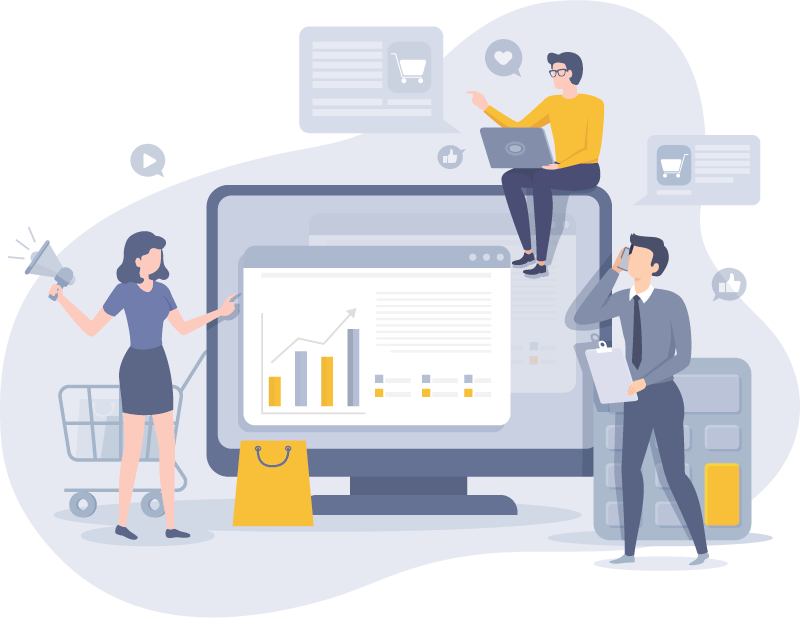
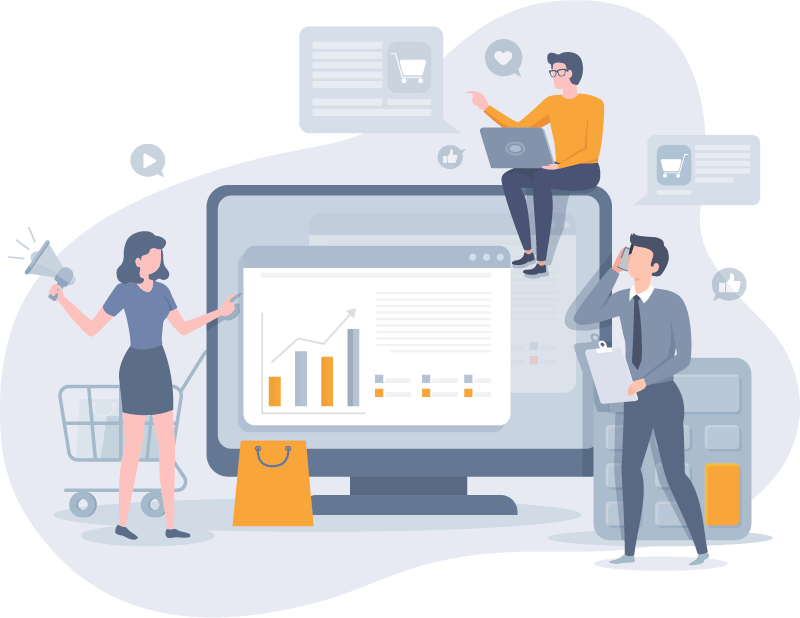
Changed Colors

diff --git a/templates/profile.html b/templates/profile.html
@@ -49,7 +49,7 @@ background-color: #e2e8f0;
 }
 
 .profile-card-2 .card.profile-primary::before {
-	background-color: #ebb523;
+	background-color: #FE980F;
 }
 .profile-card-2 .card.profile-success::before {
 	background-color: #15ca20;
@@ -140,14 +140,14 @@ background-color: #e2e8f0;
 }
 
 .nav-tabs-primary.nav-tabs{
-	border-bottom: 1px solid #ebb523;
+	border-bottom: 1px solid #FE980F;
 }
 
 .nav-tabs-primary .nav-link.active, .nav-tabs-primary .nav-item.show>.nav-link {
-    color: #ebb523;
+    color: #FE980F;
     background-color: #fff;
-    border-color: #ebb523 #ebb523 #fff;
-    border-top: 3px solid #ebb523;
+    border-color: #FE980F #FE980F #fff;
+    border-top: 3px solid #FE980F;
 }
 
 .nav-tabs-success.nav-tabs{
@@ -247,16 +247,16 @@ background-color: #e2e8f0;
 
 .tabs-vertical-primary.tabs-vertical .nav-tabs{
 	border:0;
-	border-right: 1px solid #ebb523;
+	border-right: 1px solid #FE980F;
 }
 
 .tabs-vertical-primary.tabs-vertical .nav-tabs .nav-item.show .nav-link, .tabs-vertical-primary.tabs-vertical .nav-tabs .nav-link.active {
-    color: #ebb523;
+    color: #FE980F;
     background-color: #fff;
-    border-color: #ebb523 #ebb523 #fff;
-    border-bottom: 1px solid #ebb523;
+    border-color: #FE980F #FE980F #fff;
+    border-bottom: 1px solid #FE980F;
     border-right: 0;
-    border-left: 3px solid #ebb523;
+    border-left: 3px solid #FE980F;
 }
 
 .tabs-vertical-success.tabs-vertical .nav-tabs{
@@ -379,7 +379,7 @@ background-color: #e2e8f0;
 
 .nav-pills .nav-link.active, .nav-pills .show>.nav-link {
     color: #fff;
-    background-color: #ebb523;
+    background-color: #FE980F;
     box-shadow: 0 4px 20px 0 rgba(0,0,0,.14), 0 7px 10px -5px rgba(0, 140, 255, 0.5);
 }
 
@@ -501,7 +501,7 @@ background-color: #e2e8f0;
             <div class="card z-depth-3">
                 <div class="card-body">
                     <ul class="nav nav-pills nav-pills-primary nav-justified">
-                        <li class="nav-item" style="color:#ebb523;">
+                        <li class="nav-item" style="color:#FE980F;">
                             <a href="javascript:void();" data-target="#profile" data-toggle="pill"
                                class="nav-link active show"><i class="icon-user"></i> <span
                                     class="hidden-xs" >Profile</span></a>

diff --git a/templates/base.html b/templates/base.html
@@ -64,7 +64,7 @@ h4 {
 	padding-right: 50px;
 }
 .navbar .navbar-brand b {
-	color: #ebb523;
+	color: #FE980F;
 }
 .navbar .form-inline {
 	display: inline-block;
@@ -124,7 +124,7 @@ h4 {
 	font-size: 14px;
 }
 .navbar .action-form a {
-	color: #ebb523;
+	color: #FE980F;
 	padding: 0 !important;
 	font-size: 14px;
 }
@@ -135,7 +135,7 @@ h4 {
 }
 .navbar .btn-primary, .navbar .btn-primary:active {
 	color: #fff;
-	background: #ebb523 !important;
+	background: #FE980F !important;
 	border: none;
 }
 .navbar .btn-primary:hover, .navbar .btn-primary:focus {
@@ -263,7 +263,7 @@ footer h6:after {
                 line-height: 47px;
      }
      .btn-footer:hover {
-                color:#ebb523;
+                color:#FE980F;
                 text-decoration: none;
 
      }
@@ -271,7 +271,7 @@ footer h6:after {
         color: white;
     }
      .footer-link:hover {
-                color:#ebb523;
+                color:#FE980F;
                 text-decoration: none;
     }
     .form-footer input[type="text"] {
@@ -298,7 +298,7 @@ footer h6:after {
     background: #00;
     }
      .social .fa-footer {
-    color: #ebb523;
+    color: #FE980F;
     font-size: 22px;
     padding: 5px 5px;
     background: #00;

diff --git a/static/css/main2.css b/static/css/main2.css
@@ -74,7 +74,7 @@ a:focus {
 
 a:hover {
 	text-decoration: none;
-  color: #ebb523;
+  color: #FE980F;
 }
 
 /*---------------------------------------------*/
@@ -367,7 +367,7 @@ input.input100 {
   top: -1px;
   left: -1px;
   pointer-events: none;
-  border: 1px solid #ebb523;
+  border: 1px solid #FE980F;
   border-radius: 10px;
 
   visibility: hidden;
@@ -462,7 +462,7 @@ input.input100 {
   height: 18px;
   border-radius: 2px;
   background: #fff;
-  border: 1px solid #ebb523;
+  border: 1px solid #FE980F;
   left: 0;
   top: 50%;
   -webkit-transform: translateY(-50%);
@@ -502,7 +502,7 @@ input.input100 {
   width: 300px;
   height: 50px;
   border-radius: 10px;
-  background: #ebb523;
+  background: #FE980F;
 
   font-family: Montserrat-Bold;
   font-size: 12px;

diff --git a/static/css/main.css b/static/css/main.css
@@ -74,7 +74,7 @@ a:focus {
 
 a:hover {
 	text-decoration: none;
-  color: #ebb523;
+  color: #FE980F;
 }
 
 /*---------------------------------------------*/
@@ -369,7 +369,7 @@ input.input100 {
   top: -1px;
   left: -1px;
   pointer-events: none;
-  border: 1px solid #ebb523;
+  border: 1px solid #FE980F;
   border-radius: 10px;
 
   visibility: hidden;
@@ -464,7 +464,7 @@ input.input100 {
   height: 18px;
   border-radius: 2px;
   background: #fff;
-  border: 1px solid #ebb523;
+  border: 1px solid #FE980F;
   left: 0;
   top: 50%;
   -webkit-transform: translateY(-50%);
@@ -504,7 +504,7 @@ input.input100 {
   width: 100%;
   height: 50px;
   border-radius: 10px;
-  background: #ebb523;
+  background: #FE980F;
 
   font-family: Montserrat-Bold;
   font-size: 12px;

diff --git a/products/templates/item.html b/products/templates/item.html
@@ -35,7 +35,7 @@ Buy {{x.name}}
 	padding: 35px;
 }
 .modal-header-cart {
-	background: #ebb523;
+	background: #FE980F;
 	border-bottom: none;
 	position: relative;
 	text-align: center;
@@ -182,7 +182,7 @@ Buy {{x.name}}
                     </dl>
 
                     <a href="#myModal1" class="btn btn-lg btn-primary text-uppercase"
-                       style="background: #ebb523;border: none; " data-toggle="modal"> Buy now </a>
+                       style="background: #FE980F;border: none; " data-toggle="modal"> Buy now </a>
                     {% if x.id not in ids %}
                        <a href="/wishlist/{{x.id}}" class="btn btn-lg btn-primary text-uppercase"
                        style="background: #dc3545;border: none; font-color:'white'"> <i

diff --git a/templates/auth/home.html b/templates/auth/home.html
@@ -30,7 +30,7 @@ HoneyComb
                         <a href="/buy/product/{{x.id}} " style="text-decoration:none;">
                             <style>
                             .btn-outline-warning{color:#ad7c2d; border-color:#ad7c2d; }
-                            .btn-outline-warning:hover { background-color:#ebb523; color:#fcfcfc;border-color:#ebb523; }
+                            .btn-outline-warning:hover { background-color:#FE980F; color:#fcfcfc;border-color:#FE980F; }
                             </style>
                             <button id="apr{{x.id}}" class="btn btn-outline-warning btn-sm">Buy Now
                             </button>

diff --git a/templates/wishlist.html b/templates/wishlist.html
@@ -92,7 +92,7 @@ Your Wishlist
                             </dl>  <!-- item-property-hor .// -->
 
                             <a href="/buy/product/{{x.id}}" class="btn btn-lg btn-primary text-uppercase"
-                               style="background: #ebb523;border: none; "><i
+                               style="background: #FE980F;border: none; "><i
                                     class="fa fa-shopping-cart"></i> Buy now </a>
                             <form action="/wishlist/{{x.id}}" method="post" style="display:inline">
                                 {% csrf_token %}

diff --git a/templates/editad.html b/templates/editad.html
@@ -68,7 +68,7 @@ background-color: #e2e8f0;
                         </div>
                         <div class="col-lg-9">
                             <input type="reset" class="btn btn-secondary" value="Cancel">
-                            <input type="submit"  class="btn btn-primary" value="Edit AD" style="background: #ebb523; border-color:#ebb523 ">
+                            <input type="submit"  class="btn btn-primary" value="Edit AD" style="background: #FE980F; border-color:#FE980F ">
                         </div>
                     </form>
                 </div>

diff --git a/templates/yourads.html b/templates/yourads.html
@@ -92,7 +92,7 @@ Your ADs
                             </dl>  <!-- item-property-hor .// -->
 
                             <a href="/yourads/edit/{{x.id}}" class="btn btn-lg btn-primary text-uppercase"
-                               style="background: #ebb523;border: none; "><i
+                               style="background: #FE980F;border: none; "><i
                                     class="fa fa-pencil"></i> Edit AD </a>
                             <form action="/yourads/{{x.id}}" method="post" style="display:inline">
                                 {% csrf_token %}

diff --git a/templates/sell.html b/templates/sell.html
@@ -69,7 +69,7 @@ text-align: left;
                         </div>
                         <div class="col-lg-9">
                             <input type="reset" class="btn btn-secondary" value="Cancel">
-                            <input type="submit"  class="btn btn-primary" value="Post AD" style="background: #ebb523; border-color:#ebb523 ">
+                            <input type="submit"  class="btn btn-primary" value="Post AD" style="background: #FE980F; border-color:#FE980F ">
                         </div>
                     </form>
                 </div>

diff --git a/templates/buy.html b/templates/buy.html
@@ -9,7 +9,12 @@ Buy/Rent
 <link href="/static/buy/css/animate.css" rel="stylesheet">
 <link href="/static/buy/css/main.css" rel="stylesheet">
 <link href="/static/buy/css/responsive.css" rel="stylesheet">
-
+<style>
+    .product-image-wrapper:hover{
+        -webkit-box-shadow: 0 7px 7px 0 rgba(0,0,0,0.10),0 0px 15px 0 rgba(0,0,0,0.3);
+    box-shadow: 0 7px 7px 0 rgba(0,0,0,0.10),0 0px 15px 0 rgba(0,0,0,0.3);
+    }
+</style>
 {% endblock head %}
 
 {% block content %}
